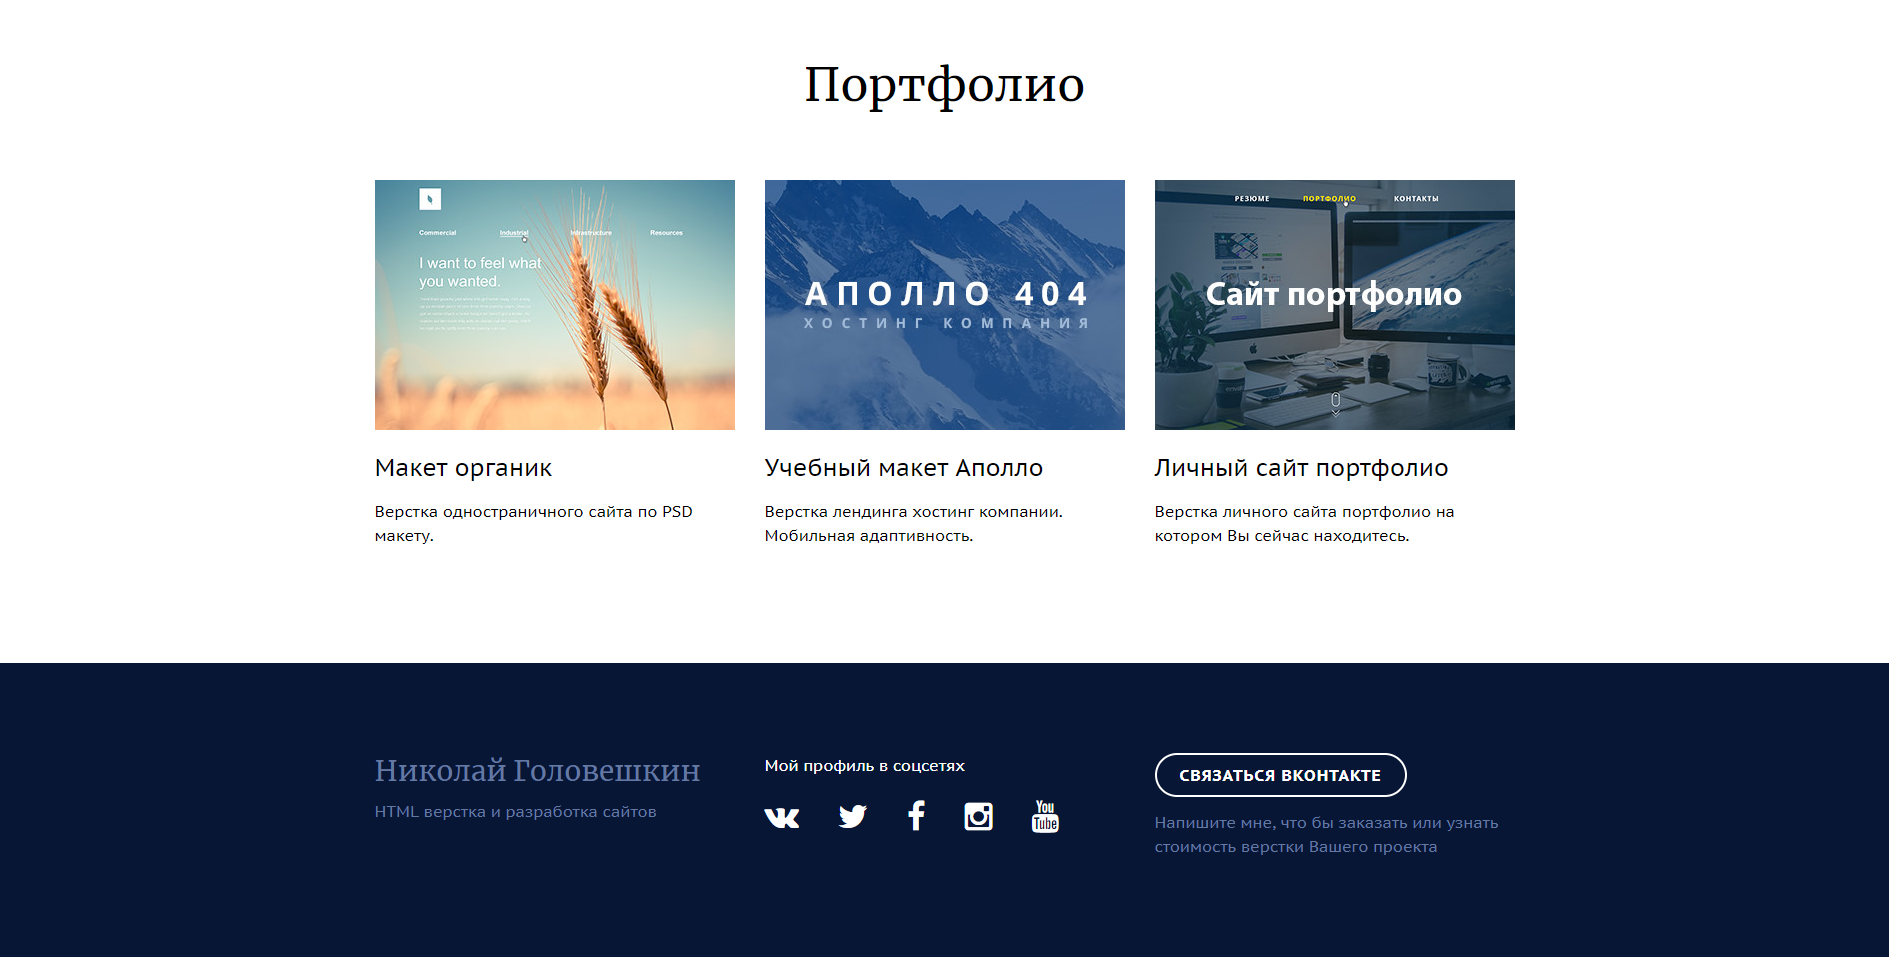
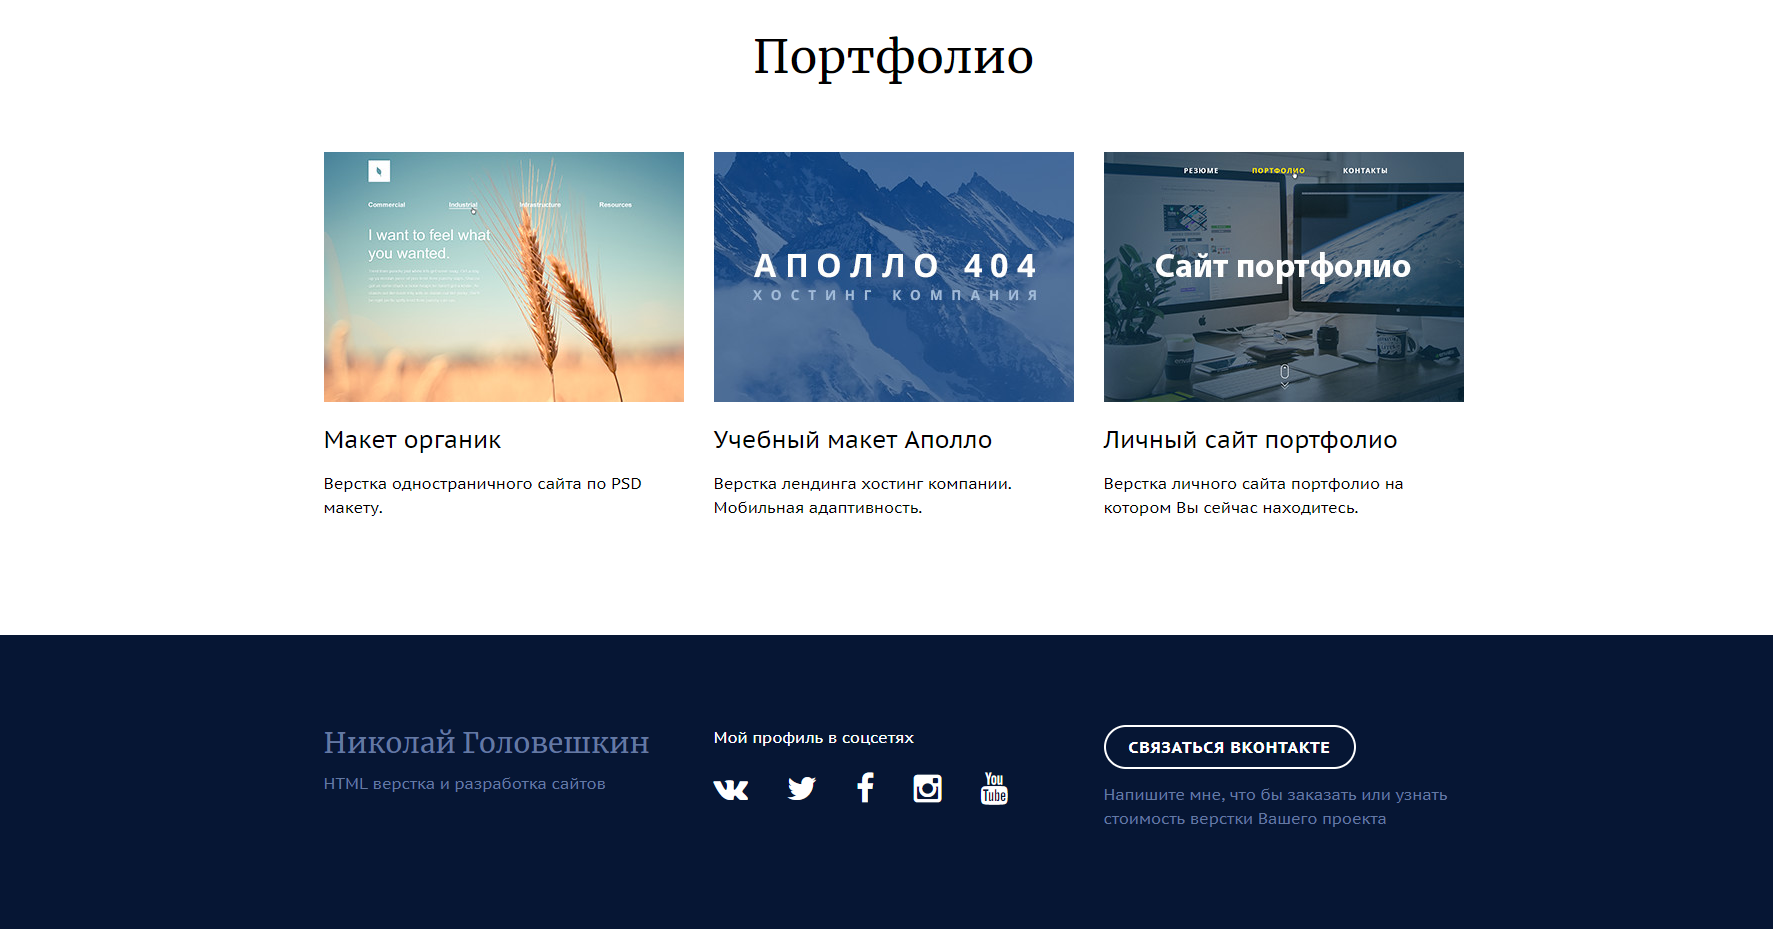
footer correct

diff --git a/index.html b/index.html
@@ -19,33 +19,41 @@
     <div class="loader" id="loaderId"></div>
     
     <!-- Весь сайт после прелоадреа -->
-    <div class="mainSite" id="mainSiteId">
+
       
 <!--      -->
 <!-- HEAD -->
 <!--      -->
 
       <!-- Карусель -->
-      <div id="carouselExampleSlidesOnly" class="carousel slide carousel-fade" data-ride="carousel">
-        <!-- Смена фона -->
-        <div class="carousel-inner">
-          <div class="carousel-item active">
-            <img class="img-fluid w-100" src="img/slide1.jpg" alt="First slide">
-          </div>
-          <div class="carousel-item">
-            <img class="img-fluid w-100" src="img/slide2.jpg" alt="Second slide">
-          </div>
-          <div class="carousel-item">
-            <img class="img-fluid w-100" src="img/slide3.jpg" alt="Third slide">
+      <div class="container-fluid mainSite" id="mainSiteId">
+        <div class="row">
+          <div class="col-sm-12">
+            <div id="carouselExampleSlidesOnly" class="carousel slide carousel-fade" data-ride="carousel">
+              <!-- Смена фона -->
+              <div class="carousel-inner">
+                <div class="carousel-item active">
+                  <img class="img-fluid w-100" src="img/slide1.jpg" alt="First slide">
+                </div>
+                <div class="carousel-item">
+                  <img class="img-fluid w-100" src="img/slide2.jpg" alt="Second slide">
+                </div>
+                <div class="carousel-item">
+                  <img class="img-fluid w-100" src="img/slide3.jpg" alt="Third slide">
+                </div>
+              </div>
+            </div>
           </div>
         </div>
       </div>
+
+
 
     
 <!-- bodySite -->
 
         <!-- содержание на карусели-->
-<div class="container-fluid" id="header">
+<div class="container-fluid header mainSite" id="mainSiteId">
     <div class="row align-items-center" id="rowfirst">
       <div class="col-sm-4">
         <div>menu</div>
@@ -105,59 +113,62 @@
 
 
         <!-- пример работ-->
-<div class="container-fluid">
-  <div class="row align-items-center">
+<div class="container-fluid mainSite" id="mainSiteId">
+  <div class="row">
     <div class="col-sm-12">
       <div class="example"><h2>Примеры моих работ</h2></div>
     </div>
   </div>
 
-  <div class="row">
-      <div class="card-deck">
-    <div class="card border-primary mb-3">
-      <div class="card-body">
-        <h5 class="card-title"><a href="https://kolya-mp19.github.io/site-portfolio-HTML/">Мой первый сайт</a></h5>
-        <p class="card-text">После начала изучения Web это была моя самая первая работа</p>
-      </div>
-      <img class="card-img-top" src="img/sitePortfolio.png" alt="Card image cap">
-      <div class="card-footer">
-        <small class="text-muted">Last updated 3 mins ago</small>
-      </div>
-    </div>
-    <div class="card border-primary mb-3">
-      <div class="card-body">
-        <h5 class="card-title"><a href="https://kolya-mp19.github.io/Memory_Game/">Карточная игра на память</a></h5>
-        <p class="card-text">Карточная игра реализованная на JavaScript</p>
-      </div>
-      <img class="card-img-top" src="img/memoryGame.png" alt="Card image cap">
-      <div class="card-footer">
-        <small class="text-muted">Last updated 3 mins ago</small>
+  <div class="row align-items-center">
+    <div class="col-sm-4">
+      <div class="card border-primary mb-3">
+        <div class="card-body">
+          <h5 class="card-title"><a href="https://kolya-mp19.github.io/site-portfolio-HTML/">Мой первый сайт</a></h5>
+          <p class="card-text">После начала изучения Web это была моя самая первая работа</p>
+        </div>
+        <img class="card-img-top" src="img/sitePortfolio.png" alt="Card image cap">
+        <div class="card-footer">
+          <small class="text-muted">Last updated 3 mins ago</small>
+        </div>
       </div>
     </div>
-    <div class="card border-primary mb-3">
-      <div class="card-body">
-        <h5 class="card-title"><a href="https://kolya-mp19.github.io/Game-X-O/">Игра крестики-нолики</a></h5>
-        <p class="card-text">Всем известная игра реализованная на JavaScript</p>
-      </div>
-      <img class="card-img-top" src="img/x-o.png" alt="Card image cap">
-      <div class="card-footer">
-        <small class="text-muted">Last updated 3 mins ago</small>
-      </div>
-    </div>
-      </div>
-  </div>
 
+    <div class="col-sm-4">
+      <div class="card border-primary mb-3">
+        <div class="card-body">
+          <h5 class="card-title"><a href="https://kolya-mp19.github.io/Memory_Game/">Карточная игра на память</a></h5>
+          <p class="card-text">Карточная игра реализованная на JavaScript.....</p>
+        </div>
+        <img class="card-img-top" src="img/memoryGame.png" alt="Card image cap">
+        <div class="card-footer">
+          <small class="text-muted">Last updated 3 mins ago</small>
+        </div>
+      </div>
+    </div>
+
+    <div class="col-sm-4">
+      <div class="card border-primary mb-3">
+        <div class="card-body">
+          <h5 class="card-title"><a href="https://kolya-mp19.github.io/Game-X-O/">Игра крестики-нолики</a></h5>
+          <p class="card-text">Всем известная игра реализованная на JavaScript</p>
+        </div>
+        <img class="card-img-top" src="img/x-o.png" alt="Card image cap">
+        <div class="card-footer">
+          <small class="text-muted">Last updated 3 mins ago</small>
+        </div>
+      </div>
+    </div>
+  </div>
 </div>
 
 <!-- footer -->
-<div class="container-fluid" id="footer">
-  <div class="row align-items-center">
+<div class="container-fluid mainSite" id="mainSiteId">
+  <div class="row">
     <div class="col-sm-12">
       <div class = "footer gradient-1-bg animate">
-        <h1>
-          <span>Хотите со мной сотрудничать?</span>
-          <a href="mailto:kolya-mp19@mail.ru" class="ghost-button">Say Hello</a>
-        </h1>
+        <h2>Хотите со мной сотрудничать? Возникли вопросы или нашли ошибку при code review?</h2>
+        <h2>Напишите мне! <a href="mailto:kolya-mp19@mail.ru" class="ghost-button">Say Hello</a></h2>
       </div>
     </div>
   </div>
@@ -165,7 +176,7 @@
 
 
 
-    </div>
+
 
 
     

diff --git a/main.css b/main.css
@@ -1,21 +1,23 @@
 .mainSite {
     display: none;
+    font-family: Arial, Helvetica, sans-serif;
 }
 
 .example {
-    height: 100px;
+    margin: 20px auto 20px auto;
     text-align: center;
 }
 
-.card-deck {
-    margin: auto 0px auto 0px;
+.col-sm-12 {
+    padding-right: 0px;
+    padding-left: 0px;
 }
 
 /* Перетекающий фон */
-.gradient-1-bg {
+/* .gradient-1-bg {
     height: 200px;
   }
-  
+   */
   .gradient-1-bg {
       background: linear-gradient(117deg, #18aacf, #00CD8D);
       background-attachment: scroll;
@@ -36,9 +38,9 @@
       background-size: 200% 200%;
       background-repeat: repeat;
   
-      -webkit-animation: AnimationName 15s ease-in-out infinite;
-      -moz-animation: AnimationName 15s ease-in-out infinite;
-      animation: AnimationName 15s ease-in-out infinite;
+      -webkit-animation: AnimationName 10s ease-in-out infinite;
+      -moz-animation: AnimationName 10s ease-in-out infinite;
+      animation: AnimationName 10s ease-in-out infinite;
   }
   
   @-webkit-keyframes AnimationName {
@@ -81,7 +83,9 @@
     opacity: 0.8;
   }
 
-#footer {
+.footer {
+    color: white;
     text-align: center;
-    padding: 0;
+    padding: 1em;
+
 }

diff --git a/headCarousel/styleHeadCarousel.css b/headCarousel/styleHeadCarousel.css
@@ -2,7 +2,10 @@
     position:relative;
     height: 100vh;
     overflow: hidden; 
+    /* min-height: 600px; */
 }
+
+
 
 .carousel-inner img {
     height: 100vh;
@@ -13,7 +16,7 @@
 .carousel .active.left {left:0;opacity:0;z-index:2;}
 .carousel .next {left:0;opacity:1;z-index:1;}
 
-#header {
+.header {
     position: absolute;
     top: 0px;
     color: white;
